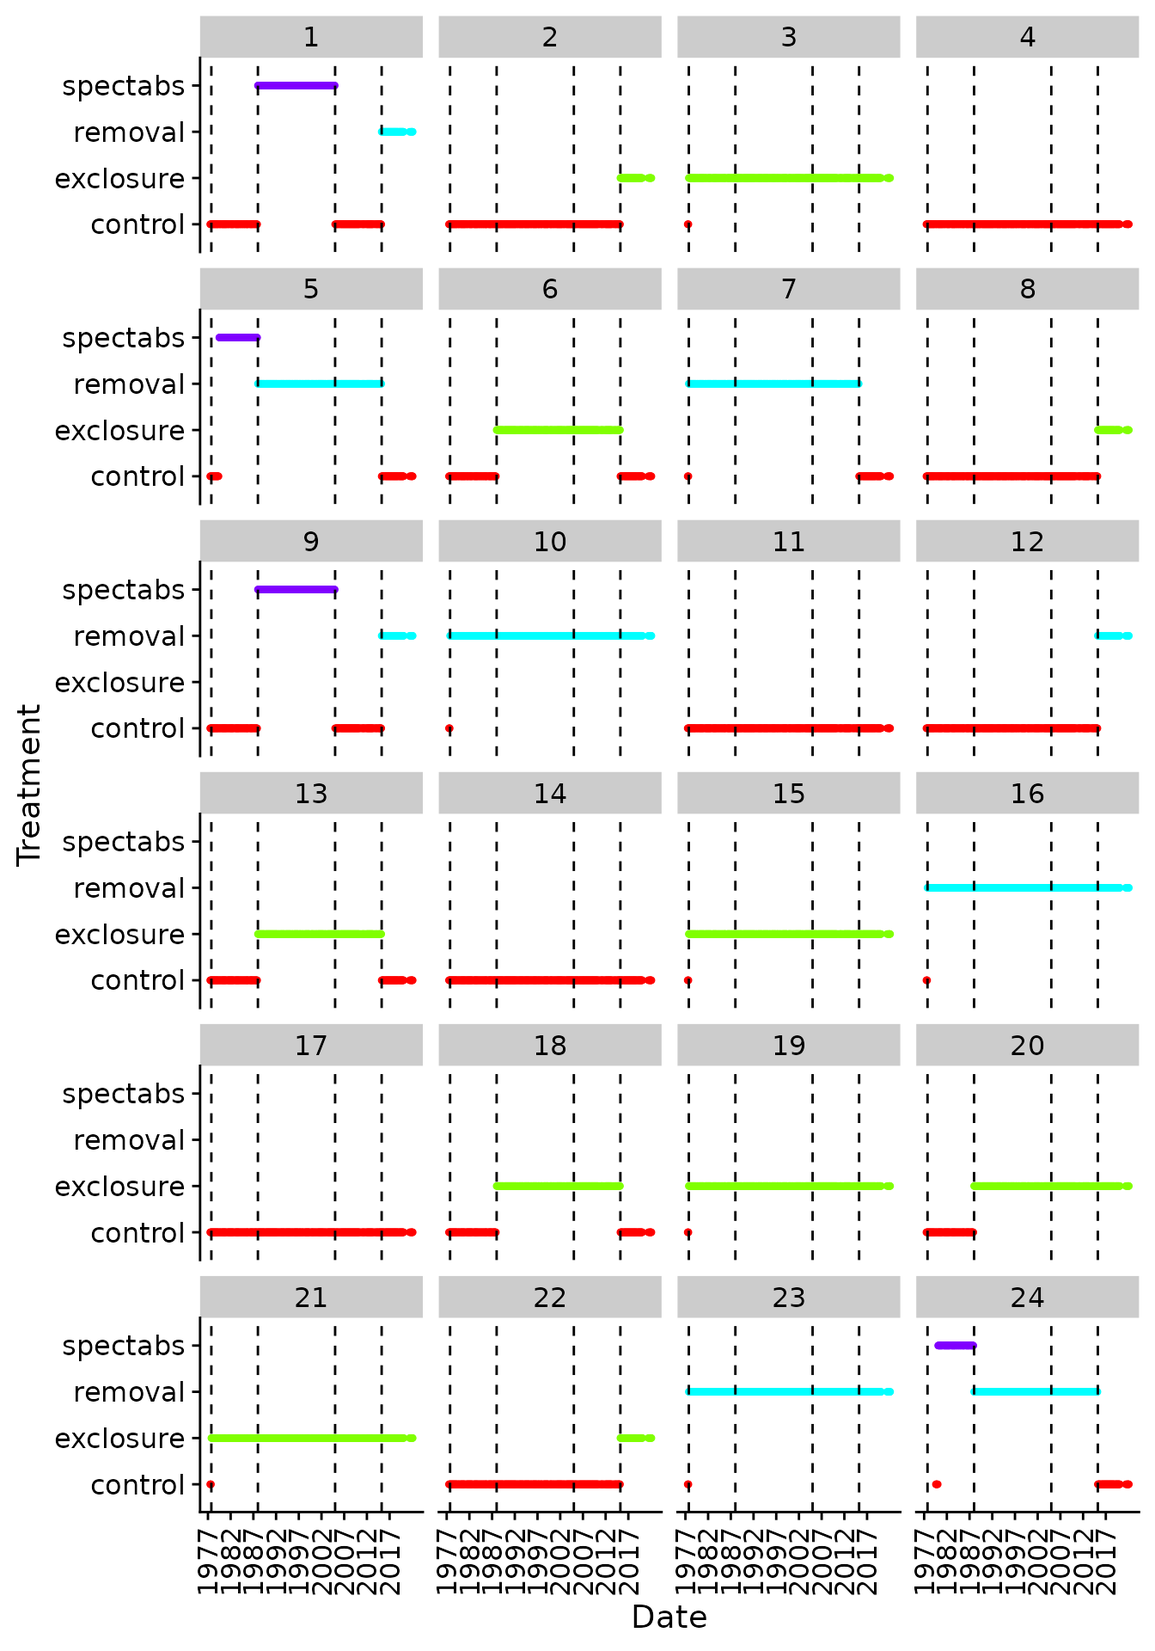
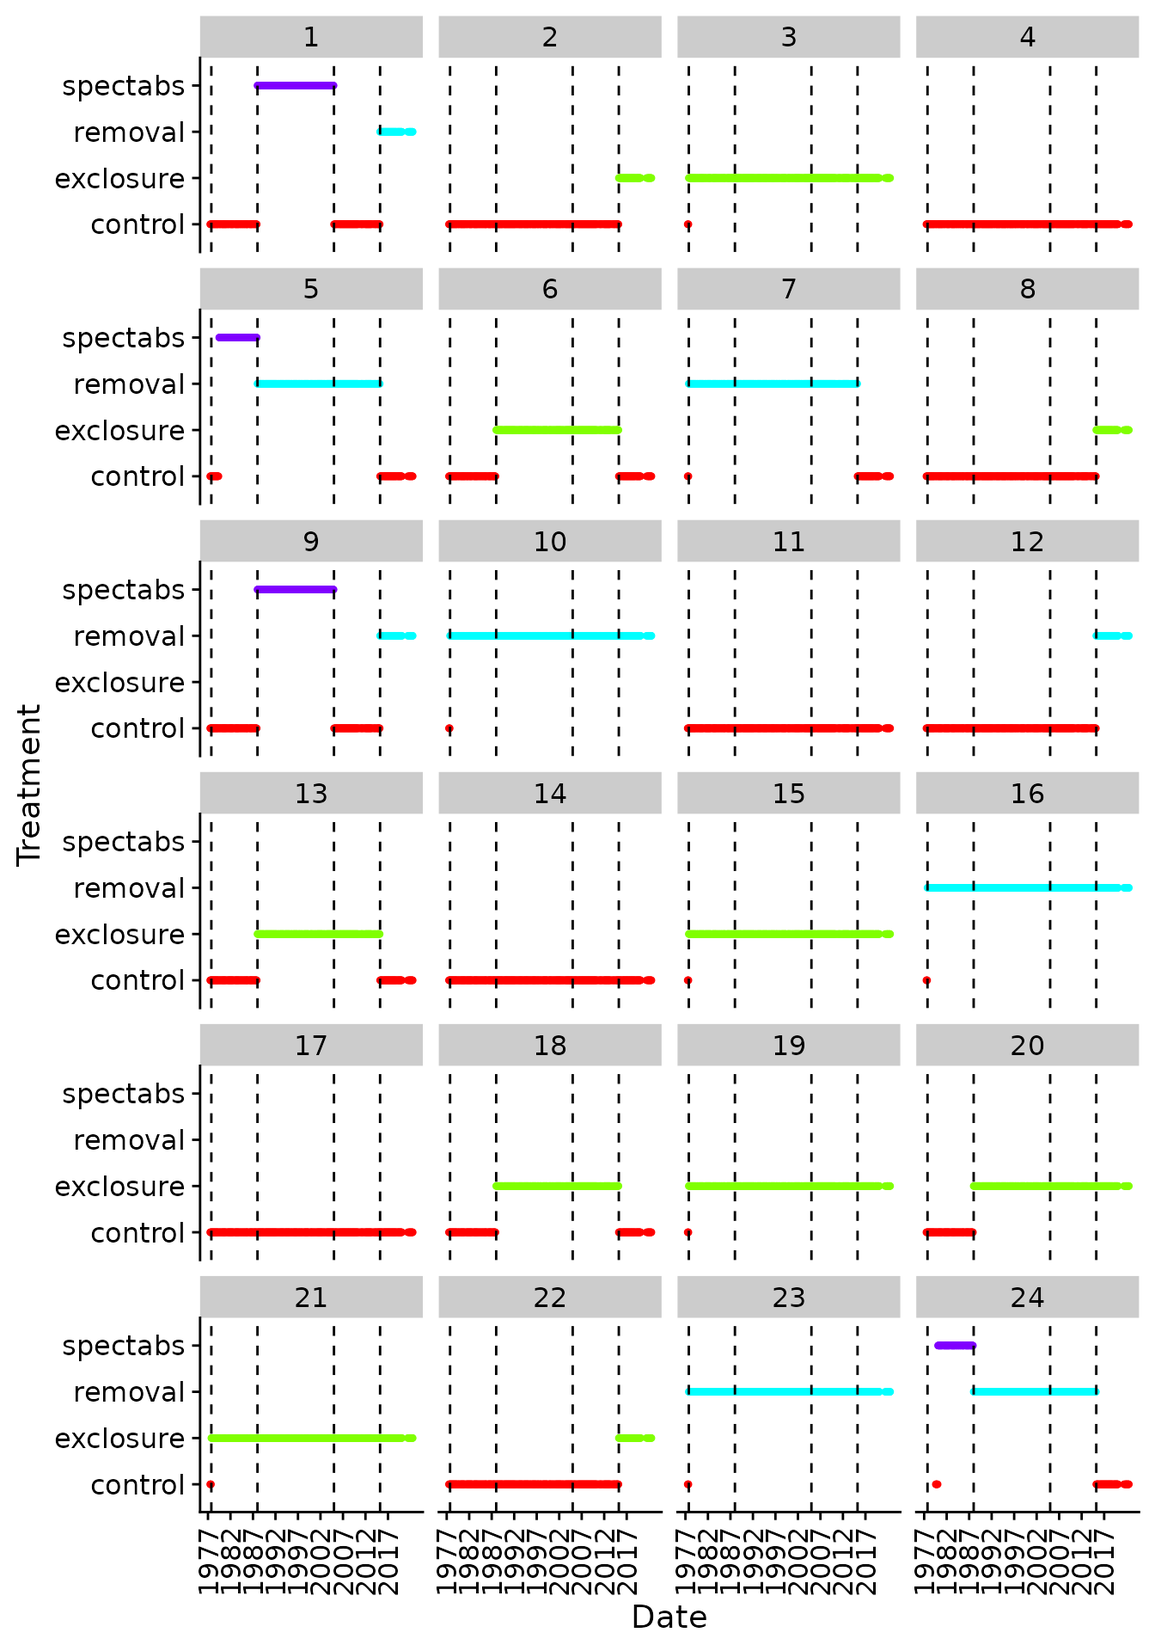
Built site for portalr: 0.4.1@e437fa0

diff --git a/articles/rodent-abundance-demo.html b/articles/rodent-abundance-demo.html
@@ -33,7 +33,7 @@
       </button>
       <span class="navbar-brand">
         <a class="navbar-link" href="../index.html">portalr</a>
-        <span class="version label label-default" data-toggle="tooltip" data-placement="bottom" title="Released version">0.4.0</span>
+        <span class="version label label-default" data-toggle="tooltip" data-placement="bottom" title="Released version">0.4.1</span>
       </span>
     </div>
 
@@ -84,7 +84,7 @@
       <h1 data-toc-skip>Portal Rodent Abundance Demo</h1>
                         <h4 data-toc-skip class="author">Hao Ye</h4>
             
-            <h4 data-toc-skip class="date">2023-04-22</h4>
+            <h4 data-toc-skip class="date">2023-08-23</h4>
       
       <small class="dont-index">Source: <a href="https://github.com/weecology/portalr/blob/HEAD/vignettes/rodent-abundance-demo.Rmd" class="external-link"><code>vignettes/rodent-abundance-demo.Rmd</code></a></small>
       <div class="hidden name"><code>rodent-abundance-demo.Rmd</code></div>
@@ -137,9 +137,9 @@ of the data.</p>
 <div class="sourceCode" id="cb2"><pre class="downlit sourceCode r">
 <code class="sourceCode R"><span><span class="va">portal_data_path</span> <span class="op">&lt;-</span> <span class="fu"><a href="https://rdrr.io/r/base/tempfile.html" class="external-link">tempdir</a></span><span class="op">(</span><span class="op">)</span> <span class="co"># use a temporary folder to store downloaded data</span></span>
 <span><span class="va">data_tables</span> <span class="op">&lt;-</span> <span class="fu"><a href="../reference/load_rodent_data.html">load_rodent_data</a></span><span class="op">(</span><span class="va">portal_data_path</span>, download_if_missing <span class="op">=</span> <span class="cn">TRUE</span><span class="op">)</span></span>
-<span><span class="co">#&gt; Warning in load_datafile(file.path("Rodents", "Portal_rodent.csv"), na.strings = "", : Proceeding to download data into specified path/tmp/Rtmp4vSERM</span></span>
-<span><span class="co">#&gt; Downloading version `4.6.0` of the data...</span></span>
-<span><span class="co">#&gt; Loading in data version 4.6.0</span></span></code></pre></div>
+<span><span class="co">#&gt; Warning in load_datafile(file.path("Rodents", "Portal_rodent.csv"), na.strings = "", : Proceeding to download data into specified path/tmp/RtmpVzX21P</span></span>
+<span><span class="co">#&gt; Downloading version `5.2.0` of the data...</span></span>
+<span><span class="co">#&gt; Loading in data version 5.2.0</span></span></code></pre></div>
 <p>The <code>load_rodent_data</code> function reads in several tables
 related to the rodent abundances. We won’t necessarily use all of these
 tables, but loading this now gives us access later.</p>
@@ -163,7 +163,7 @@ arguments to filter out the non-rodents.</p>
 <div class="sourceCode" id="cb4"><pre class="downlit sourceCode r">
 <code class="sourceCode R"><span><span class="co"># get rodent abundance by plot</span></span>
 <span><span class="va">rodent_abundance_by_plot</span> <span class="op">&lt;-</span> <span class="fu"><a href="../reference/summarize_rodent_data.html">abundance</a></span><span class="op">(</span>path <span class="op">=</span> <span class="va">portal_data_path</span>, time <span class="op">=</span> <span class="st">"date"</span>, level <span class="op">=</span> <span class="st">"plot"</span><span class="op">)</span> </span>
-<span><span class="co">#&gt; Loading in data version 4.6.0</span></span>
+<span><span class="co">#&gt; Loading in data version 5.2.0</span></span>
 <span></span>
 <span><span class="va">rodent_abundance</span> <span class="op">&lt;-</span> <span class="va">rodent_abundance_by_plot</span> <span class="op"><a href="../reference/pipe.html">%&gt;%</a></span></span>
 <span>  <span class="fu"><a href="https://tidyr.tidyverse.org/reference/gather.html" class="external-link">gather</a></span><span class="op">(</span><span class="va">species</span>, <span class="va">abundance</span>, <span class="op">-</span><span class="va">censusdate</span>, <span class="op">-</span><span class="va">treatment</span>, <span class="op">-</span><span class="va">plot</span><span class="op">)</span> <span class="op"><a href="../reference/pipe.html">%&gt;%</a></span></span>
@@ -171,12 +171,12 @@ arguments to filter out the non-rodents.</p>
 <span>  <span class="fu"><a href="https://dplyr.tidyverse.org/reference/rename.html" class="external-link">rename</a></span><span class="op">(</span>abundance <span class="op">=</span> <span class="va">n</span><span class="op">)</span></span>
 <span><span class="fu"><a href="https://rdrr.io/r/base/print.html" class="external-link">print</a></span><span class="op">(</span><span class="fu"><a href="https://rdrr.io/r/base/summary.html" class="external-link">summary</a></span><span class="op">(</span><span class="va">rodent_abundance</span><span class="op">)</span><span class="op">)</span></span>
 <span><span class="co">#&gt;    species            censusdate           abundance      </span></span>
-<span><span class="co">#&gt;  Length:9240        Min.   :1979-09-22   Min.   :  0.000  </span></span>
-<span><span class="co">#&gt;  Class :character   1st Qu.:1989-08-25   1st Qu.:  0.000  </span></span>
-<span><span class="co">#&gt;  Mode  :character   Median :1998-11-07   Median :  0.000  </span></span>
-<span><span class="co">#&gt;                     Mean   :1999-09-20   Mean   :  6.641  </span></span>
-<span><span class="co">#&gt;                     3rd Qu.:2009-09-26   3rd Qu.:  5.000  </span></span>
-<span><span class="co">#&gt;                     Max.   :2022-02-26   Max.   :285.000</span></span></code></pre></div>
+<span><span class="co">#&gt;  Length:9303        Min.   :1979-09-22   Min.   :  0.000  </span></span>
+<span><span class="co">#&gt;  Class :character   1st Qu.:1989-09-03   1st Qu.:  0.000  </span></span>
+<span><span class="co">#&gt;  Mode  :character   Median :1998-12-22   Median :  0.000  </span></span>
+<span><span class="co">#&gt;                     Mean   :1999-11-16   Mean   :  6.718  </span></span>
+<span><span class="co">#&gt;                     3rd Qu.:2009-12-12   3rd Qu.:  5.000  </span></span>
+<span><span class="co">#&gt;                     Max.   :2022-07-30   Max.   :334.000</span></span></code></pre></div>
 <p>Let’s convert the data to long format for easier facetting. Also, we
 want the scientific names instead of the two-letter species codes, so
 let’s do that matching, too:</p>
@@ -217,7 +217,7 @@ let’s do that matching, too:</p>
 <span><span class="va">my_plot</span> <span class="op">&lt;-</span> <span class="fu">make_abundance_plot_over_time</span><span class="op">(</span><span class="va">rodent_abundance</span><span class="op">)</span></span>
 <span></span>
 <span><span class="fu"><a href="https://rdrr.io/r/base/print.html" class="external-link">print</a></span><span class="op">(</span><span class="va">my_plot</span><span class="op">)</span></span>
-<span><span class="co">#&gt; Warning: Removed 28 rows containing missing values (`geom_line()`).</span></span></code></pre></div>
+<span><span class="co">#&gt; Warning: Removed 31 rows containing missing values (`geom_line()`).</span></span></code></pre></div>
 <div class="figure">
 <img src="rodent-abundance-demo_files/figure-html/unnamed-chunk-6-1.png" alt="Monthly abundance of rodents (all plots)" width="720"><p class="caption">
 Monthly abundance of rodents (all plots)
@@ -247,14 +247,14 @@ previously.</p>
 <div class="sourceCode" id="cb7"><pre class="downlit sourceCode r">
 <code class="sourceCode R"><span><span class="fu"><a href="https://rdrr.io/r/base/print.html" class="external-link">print</a></span><span class="op">(</span><span class="fu"><a href="https://rdrr.io/r/base/summary.html" class="external-link">summary</a></span><span class="op">(</span><span class="va">data_tables</span><span class="op">$</span><span class="va">plots_table</span><span class="op">)</span><span class="op">)</span></span>
 <span><span class="co">#&gt;       year          month             plot        treatment        </span></span>
-<span><span class="co">#&gt;  Min.   :1977   Min.   : 1.000   Min.   : 1.00   Length:11240      </span></span>
+<span><span class="co">#&gt;  Min.   :1977   Min.   : 1.000   Min.   : 1.00   Length:11336      </span></span>
 <span><span class="co">#&gt;  1st Qu.:1988   1st Qu.: 4.000   1st Qu.: 6.00   Class :character  </span></span>
 <span><span class="co">#&gt;  Median :1999   Median : 7.000   Median :12.00   Mode  :character  </span></span>
-<span><span class="co">#&gt;  Mean   :1999   Mean   : 6.549   Mean   :12.49                     </span></span>
-<span><span class="co">#&gt;  3rd Qu.:2009   3rd Qu.:10.000   3rd Qu.:18.00                     </span></span>
+<span><span class="co">#&gt;  Mean   :1999   Mean   : 6.541   Mean   :12.49                     </span></span>
+<span><span class="co">#&gt;  3rd Qu.:2010   3rd Qu.:10.000   3rd Qu.:18.00                     </span></span>
 <span><span class="co">#&gt;  Max.   :2022   Max.   :12.000   Max.   :24.00                     </span></span>
 <span><span class="co">#&gt;  resourcetreatment  anttreatment      </span></span>
-<span><span class="co">#&gt;  Length:11240       Length:11240      </span></span>
+<span><span class="co">#&gt;  Length:11336       Length:11336      </span></span>
 <span><span class="co">#&gt;  Class :character   Class :character  </span></span>
 <span><span class="co">#&gt;  Mode  :character   Mode  :character  </span></span>
 <span><span class="co">#&gt;                                       </span></span>

diff --git a/articles/portal_researcher_examples.html b/articles/portal_researcher_examples.html
@@ -33,7 +33,7 @@
       </button>
       <span class="navbar-brand">
         <a class="navbar-link" href="../index.html">portalr</a>
-        <span class="version label label-default" data-toggle="tooltip" data-placement="bottom" title="Released version">0.4.0</span>
+        <span class="version label label-default" data-toggle="tooltip" data-placement="bottom" title="Released version">0.4.1</span>
       </span>
     </div>
 
@@ -86,7 +86,7 @@ Package</h1>
                         <h4 data-toc-skip class="author">Ellen K.
 Bledsoe</h4>
             
-            <h4 data-toc-skip class="date">2023-04-22</h4>
+            <h4 data-toc-skip class="date">2023-08-23</h4>
       
       <small class="dont-index">Source: <a href="https://github.com/weecology/portalr/blob/HEAD/vignettes/portal_researcher_examples.Rmd" class="external-link"><code>vignettes/portal_researcher_examples.Rmd</code></a></small>
       <div class="hidden name"><code>portal_researcher_examples.Rmd</code></div>
@@ -161,8 +161,8 @@ treatment, plot number, and each species:</p>
 </tr></thead>
 <tbody>
 <tr class="odd">
-<td align="left">10555</td>
-<td align="left">2022-02-26</td>
+<td align="left">10627</td>
+<td align="left">2022-07-30</td>
 <td align="left">removal</td>
 <td align="right">1</td>
 <td align="right">0</td>
@@ -174,25 +174,25 @@ treatment, plot number, and each species:</p>
 <td align="right">0</td>
 </tr>
 <tr class="even">
-<td align="left">10556</td>
-<td align="left">2022-02-26</td>
+<td align="left">10628</td>
+<td align="left">2022-07-30</td>
 <td align="left">removal</td>
 <td align="right">9</td>
 <td align="right">0</td>
-<td align="right">176</td>
-<td align="right">283</td>
+<td align="right">0</td>
+<td align="right">0</td>
 <td align="right">0</td>
 <td align="right">0</td>
 <td align="right">0</td>
 <td align="right">0</td>
 </tr>
 <tr class="odd">
-<td align="left">10557</td>
-<td align="left">2022-02-26</td>
+<td align="left">10629</td>
+<td align="left">2022-07-30</td>
 <td align="left">removal</td>
 <td align="right">10</td>
 <td align="right">0</td>
-<td align="right">53</td>
+<td align="right">0</td>
 <td align="right">0</td>
 <td align="right">0</td>
 <td align="right">0</td>
@@ -200,8 +200,8 @@ treatment, plot number, and each species:</p>
 <td align="right">0</td>
 </tr>
 <tr class="even">
-<td align="left">10558</td>
-<td align="left">2022-02-26</td>
+<td align="left">10630</td>
+<td align="left">2022-07-30</td>
 <td align="left">removal</td>
 <td align="right">12</td>
 <td align="right">0</td>
@@ -213,12 +213,12 @@ treatment, plot number, and each species:</p>
 <td align="right">0</td>
 </tr>
 <tr class="odd">
-<td align="left">10559</td>
-<td align="left">2022-02-26</td>
+<td align="left">10631</td>
+<td align="left">2022-07-30</td>
 <td align="left">removal</td>
 <td align="right">16</td>
 <td align="right">0</td>
-<td align="right">0</td>
+<td align="right">53</td>
 <td align="right">0</td>
 <td align="right">0</td>
 <td align="right">0</td>
@@ -226,12 +226,12 @@ treatment, plot number, and each species:</p>
 <td align="right">0</td>
 </tr>
 <tr class="even">
-<td align="left">10560</td>
-<td align="left">2022-02-26</td>
+<td align="left">10632</td>
+<td align="left">2022-07-30</td>
 <td align="left">removal</td>
 <td align="right">23</td>
 <td align="right">0</td>
-<td align="right">138</td>
+<td align="right">0</td>
 <td align="right">0</td>
 <td align="right">0</td>
 <td align="right">0</td>

diff --git a/reference/portalr.html b/reference/portalr.html
@@ -17,7 +17,7 @@
       </button>
       <span class="navbar-brand">
         <a class="navbar-link" href="../index.html">portalr</a>
-        <span class="version label label-default" data-toggle="tooltip" data-placement="bottom" title="Released version">0.4.0</span>
+        <span class="version label label-default" data-toggle="tooltip" data-placement="bottom" title="Released version">0.4.1</span>
       </span>
     </div>
 
@@ -66,6 +66,26 @@
     </div>
 
 
+    <div id="see-also">
+    <h2>See also</h2>
+    <div class="dont-index"><p>Useful links:</p><ul><li><p><a href="https://weecology.github.io/portalr/">https://weecology.github.io/portalr/</a></p></li>
+<li><p><a href="https://github.com/weecology/portalr" class="external-link">https://github.com/weecology/portalr</a></p></li>
+<li><p>Report bugs at <a href="https://github.com/weecology/portalr/issues" class="external-link">https://github.com/weecology/portalr/issues</a></p></li>
+</ul></div>
+    </div>
+    <div id="author">
+    <h2>Author</h2>
+    <p><strong>Maintainer</strong>: Glenda M. Yenni <a href="mailto:glenda@weecology.org">glenda@weecology.org</a> (<a href="https://orcid.org/0000-0001-6969-1848" class="external-link">ORCID</a>)</p>
+<p>Authors:</p><ul><li><p>Hao Ye (<a href="https://orcid.org/0000-0002-8630-1458" class="external-link">ORCID</a>)</p></li>
+<li><p>Erica M. Christensen (<a href="https://orcid.org/0000-0002-5635-2502" class="external-link">ORCID</a>)</p></li>
+<li><p>Juniper L. Simonis (<a href="https://orcid.org/0000-0001-9798-0460" class="external-link">ORCID</a>)</p></li>
+<li><p>Ellen K. Bledsoe (<a href="https://orcid.org/0000-0002-3629-7235" class="external-link">ORCID</a>)</p></li>
+<li><p>Renata M. Diaz (<a href="https://orcid.org/0000-0003-0803-4734" class="external-link">ORCID</a>)</p></li>
+<li><p>Shawn D. Taylor (<a href="https://orcid.org/0000-0002-6178-6903" class="external-link">ORCID</a>)</p></li>
+<li><p>Ethan P, White (<a href="https://orcid.org/0000-0001-6728-7745" class="external-link">ORCID</a>)</p></li>
+<li><p>S.K. Morgan Ernest (<a href="https://orcid.org/0000-0002-6026-8530" class="external-link">ORCID</a>)</p></li>
+</ul><p>Other contributors:</p><ul><li><p>Weecology [copyright holder]</p></li>
+</ul></div>
 
   </div>
   <div class="col-md-3 hidden-xs hidden-sm" id="pkgdown-sidebar">

diff --git a/news/index.html b/news/index.html
@@ -17,7 +17,7 @@
       </button>
       <span class="navbar-brand">
         <a class="navbar-link" href="../index.html">portalr</a>
-        <span class="version label label-default" data-toggle="tooltip" data-placement="bottom" title="Released version">0.4.0</span>
+        <span class="version label label-default" data-toggle="tooltip" data-placement="bottom" title="Released version">0.4.1</span>
       </span>
     </div>
 
@@ -60,6 +60,13 @@
       <small>Source: <a href="https://github.com/weecology/portalr/blob/HEAD/NEWS.md" class="external-link"><code>NEWS.md</code></a></small>
     </div>
 
+    <div class="section level2">
+<h2 class="page-header" data-toc-text="0.4.1" id="portalr-041"><a href="https://github.com/weecology/portalr/releases/tag/v0.4.1" class="external-link">portalr 0.4.1</a><a class="anchor" aria-label="anchor" href="#portalr-041"></a></h2>
+<p><em>2023-08-223</em></p>
+<div class="section level4">
+<h4 id="regional-weather-filling-includes-more-stations-0-4-1">Regional weather filling includes more stations<a class="anchor" aria-label="anchor" href="#regional-weather-filling-includes-more-stations-0-4-1"></a></h4>
+</div>
+</div>
     <div class="section level2">
 <h2 class="page-header" data-toc-text="0.4.0" id="portalr-040"><a href="https://github.com/weecology/portalr/releases/tag/v0.4.0" class="external-link">portalr 0.4.0</a><small>2023-04-21</small><a class="anchor" aria-label="anchor" href="#portalr-040"></a></h2>
 <p><em>2023-04-21</em></p>

diff --git a/reference/load_datafile.html b/reference/load_datafile.html
@@ -19,7 +19,7 @@
       </button>
       <span class="navbar-brand">
         <a class="navbar-link" href="../index.html">portalr</a>
-        <span class="version label label-default" data-toggle="tooltip" data-placement="bottom" title="Released version">0.4.0</span>
+        <span class="version label label-default" data-toggle="tooltip" data-placement="bottom" title="Released version">0.4.1</span>
       </span>
     </div>
 
@@ -89,8 +89,8 @@
 <dd><p>a character vector of strings which are to be
     interpreted as <code><a href="https://rdrr.io/r/base/NA.html" class="external-link">NA</a></code> values.  Blank fields are also
     considered to be missing values in logical, integer, numeric and
-    complex fields.  Note that the test happens <em>after</em> 
-    white space is stripped from the input, so <code>na.strings</code> 
+    complex fields.  Note that the test happens <em>after</em>
+    white space is stripped from the input, so <code>na.strings</code>
     values may need their own white space stripped in advance.</p></dd>
 
 

diff --git a/reference/index.html b/reference/index.html
@@ -17,7 +17,7 @@
       </button>
       <span class="navbar-brand">
         <a class="navbar-link" href="../index.html">portalr</a>
-        <span class="version label label-default" data-toggle="tooltip" data-placement="bottom" title="Released version">0.4.0</span>
+        <span class="version label label-default" data-toggle="tooltip" data-placement="bottom" title="Released version">0.4.1</span>
       </span>
     </div>
 
@@ -192,7 +192,7 @@
         </td>
         <td><p>Rodent species abbreviations</p></td>
       </tr><tr><td>
-          <p><code><a href="portalr.html">portalr</a></code> </p>
+          <p><code><a href="portalr.html">portalr</a></code> <code><a href="portalr.html">portalr-package</a></code> </p>
         </td>
         <td><p>Creates summaries of the Portal data</p></td>
       </tr></tbody></table></div>

diff --git a/reference/add_seasons.html b/reference/add_seasons.html
@@ -19,7 +19,7 @@ yearly generates a table of yearly means"><!-- mathjax --><script src="https://c
       </button>
       <span class="navbar-brand">
         <a class="navbar-link" href="../index.html">portalr</a>
-        <span class="version label label-default" data-toggle="tooltip" data-placement="bottom" title="Released version">0.4.0</span>
+        <span class="version label label-default" data-toggle="tooltip" data-placement="bottom" title="Released version">0.4.1</span>
       </span>
     </div>
 

diff --git a/reference/bait_presence_absence.html b/reference/bait_presence_absence.html
@@ -19,7 +19,7 @@ present in at least one census were censused in all years."><!-- mathjax --><scr
       </button>
       <span class="navbar-brand">
         <a class="navbar-link" href="../index.html">portalr</a>
-        <span class="version label label-default" data-toggle="tooltip" data-placement="bottom" title="Released version">0.4.0</span>
+        <span class="version label label-default" data-toggle="tooltip" data-placement="bottom" title="Released version">0.4.1</span>
       </span>
     </div>
 

diff --git a/reference/colony_presence_absence.html b/reference/colony_presence_absence.html
@@ -23,7 +23,7 @@ Unknowns may also be excluded from output if desired."><!-- mathjax --><script s
       </button>
       <span class="navbar-brand">
         <a class="navbar-link" href="../index.html">portalr</a>
-        <span class="version label label-default" data-toggle="tooltip" data-placement="bottom" title="Released version">0.4.0</span>
+        <span class="version label label-default" data-toggle="tooltip" data-placement="bottom" title="Released version">0.4.1</span>
       </span>
     </div>
 

diff --git a/reference/load_rodent_data.html b/reference/load_rodent_data.html
@@ -23,7 +23,7 @@ load_trapping_data loads just the rodent trapping files"><!-- mathjax --><script
       </button>
       <span class="navbar-brand">
         <a class="navbar-link" href="../index.html">portalr</a>
-        <span class="version label label-default" data-toggle="tooltip" data-placement="bottom" title="Released version">0.4.0</span>
+        <span class="version label label-default" data-toggle="tooltip" data-placement="bottom" title="Released version">0.4.1</span>
       </span>
     </div>
 

diff --git a/reference/shrub_cover.html b/reference/shrub_cover.html
@@ -21,7 +21,7 @@ beginning in 2015."><!-- mathjax --><script src="https://cdnjs.cloudflare.com/aj
       </button>
       <span class="navbar-brand">
         <a class="navbar-link" href="../index.html">portalr</a>
-        <span class="version label label-default" data-toggle="tooltip" data-placement="bottom" title="Released version">0.4.0</span>
+        <span class="version label label-default" data-toggle="tooltip" data-placement="bottom" title="Released version">0.4.1</span>
       </span>
     </div>
 

diff --git a/reference/summarize_plant_data.html b/reference/summarize_plant_data.html
@@ -22,7 +22,7 @@ plant_abundance generates a table of plant abundance"><!-- mathjax --><script sr
       </button>
       <span class="navbar-brand">
         <a class="navbar-link" href="../index.html">portalr</a>
-        <span class="version label label-default" data-toggle="tooltip" data-placement="bottom" title="Released version">0.4.0</span>
+        <span class="version label label-default" data-toggle="tooltip" data-placement="bottom" title="Released version">0.4.1</span>
       </span>
     </div>
 
